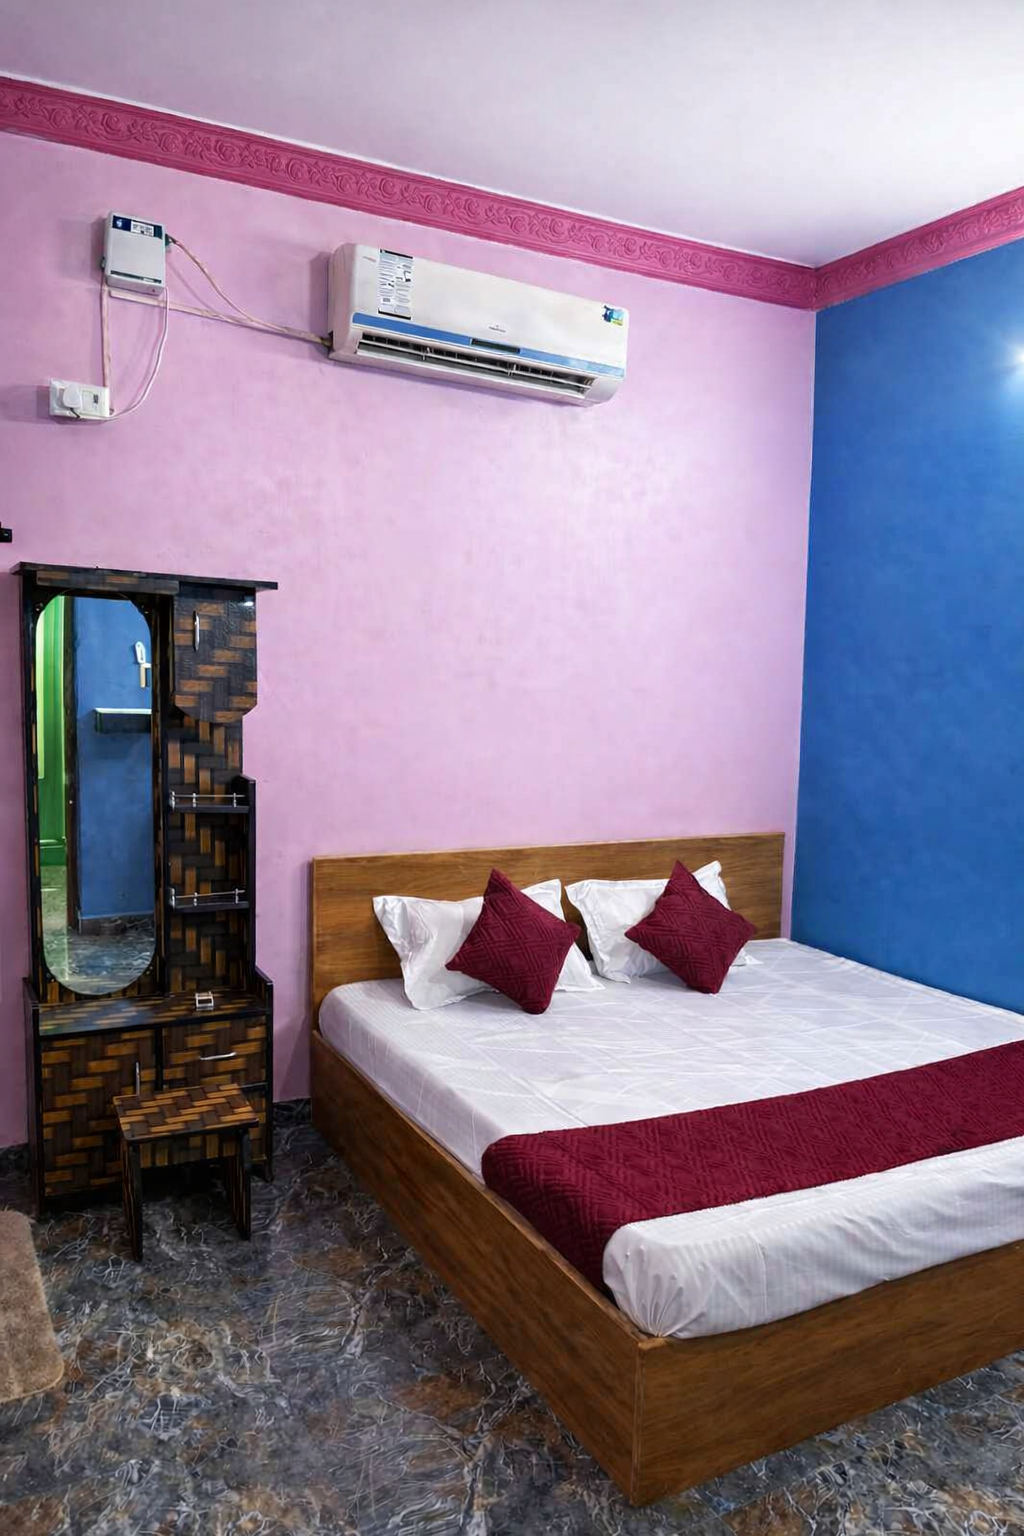
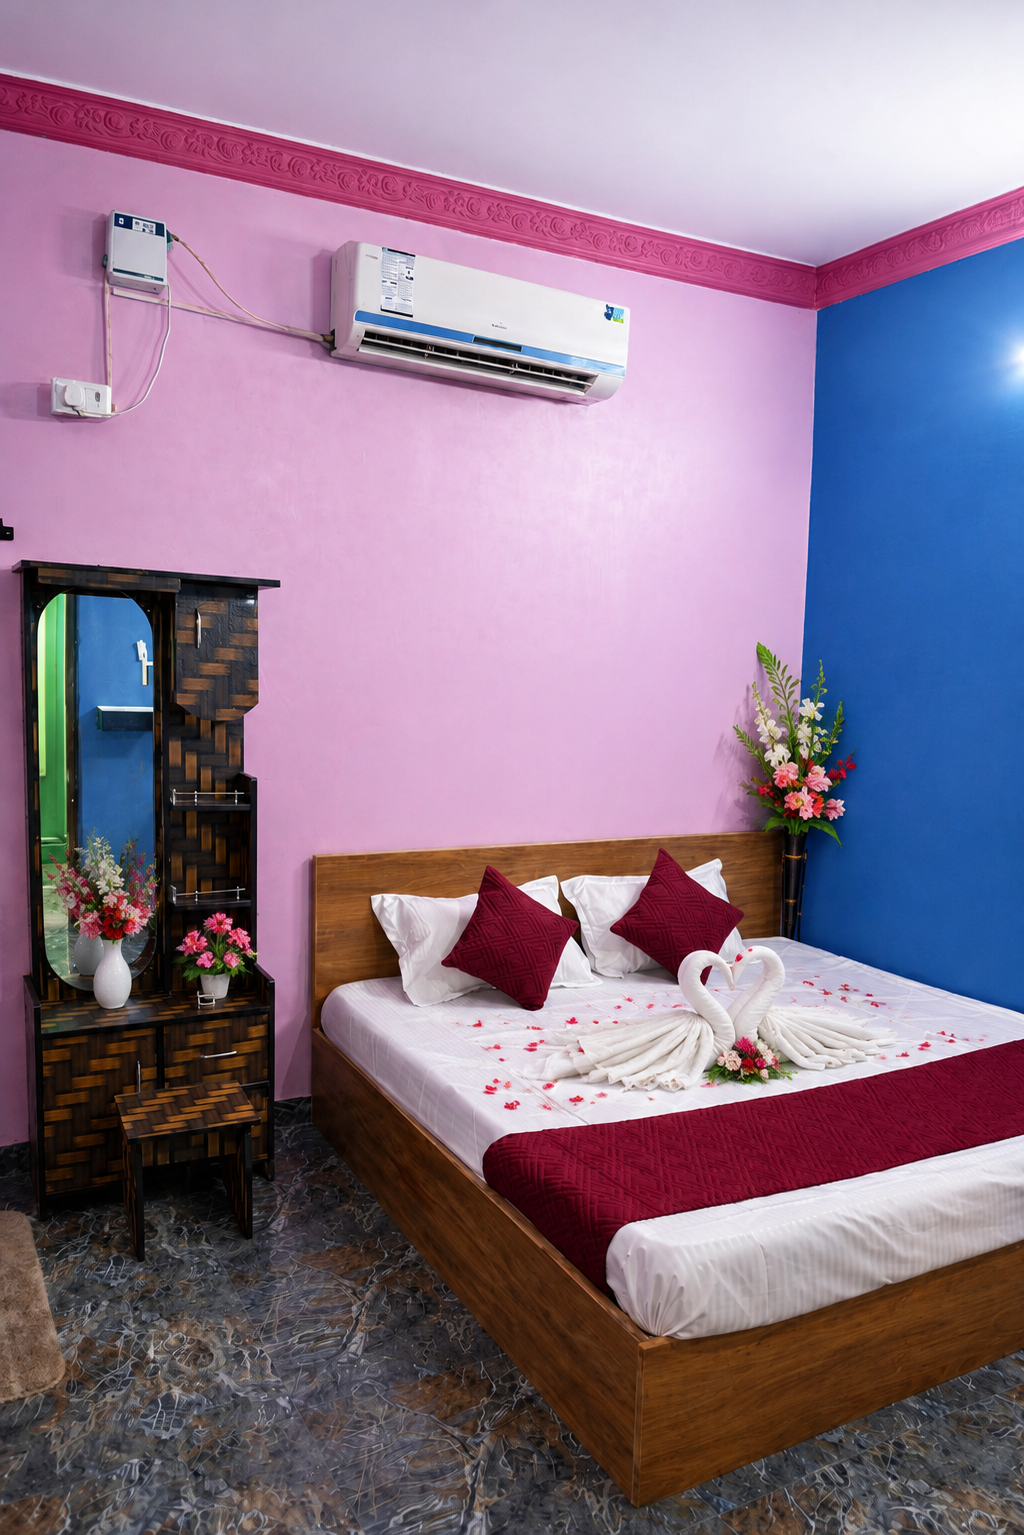
/

diff --git a/src/Components/Navbar.jsx b/src/Components/Navbar.jsx
@@ -1,5 +1,5 @@
 import { useEffect, useState } from "react";
-import { Link, useLocation } from "react-router-dom";
+import { Link, useLocation, useNavigate } from "react-router-dom";
 import LogoImage from "../assets/gallery/JP Logo.png";
 import "bootstrap/dist/css/bootstrap.min.css";
 import "bootstrap/dist/js/bootstrap.bundle.min.js";
@@ -11,6 +11,7 @@ const Navbar = () => {
   const [header, setHeader] = useState(false);
   const [isMobile, setIsMobile] = useState(false);
   const location = useLocation();
+  const navigate = useNavigate();
 
   useEffect(() => {
     const handleResize = () => setIsMobile(window.innerWidth < 992);
@@ -24,20 +25,6 @@ const Navbar = () => {
     window.addEventListener("scroll", handleScroll);
     return () => window.removeEventListener("scroll", handleScroll);
   }, []);
-
-  const scrollToSection = (id) => {
-    if (location.pathname !== "/") {
-      window.location.href = `/#${id}`;
-      return;
-    }
-
-    const section = document.getElementById(id);
-    if (section) {
-      const yOffset = -70;
-      const y = section.getBoundingClientRect().top + window.pageYOffset + yOffset;
-      window.scrollTo({ top: y, behavior: "smooth" });
-    }
-  };
 
   const bgColor = isMobile ? "#FBEFD3" : header ? "#FBEFD3" : "transparent";
   const navTextColor = header || isMobile ? "#000" : "#fff";
@@ -65,25 +52,35 @@ const Navbar = () => {
   };
 
   const navItems = [
-    { label: "Home", id: "hero" },
-    { label: "About Us", id: "about" },
-    { label: "Rooms", id: "room" },
-  { label: "JP Guest House", id: "guest-house" },
-  { label: "Pantry", id: "pantry", route: "/pantry" },
-  { label: "Tours & Travels", id: "tours-travels", route: "/tours-travels" },
-  { label: "Amenities", id: "amenities" },
-    { label: "Gallery", id: "gallery" },
-    { label: "Contact Us", id: "contact" },
+    { label: "Home", route: "/" },
+    { label: "About Us", route: "/about" },
+    { label: "Rooms", route: "/rooms" },
+    { label: "JP Guest House", route: "/guest-house" },
+    { label: "Pantry", route: "/pantry" },
+    { label: "Tours & Travels", route: "/tours-travels" },
+    { label: "Amenities", route: "/amenities" },
+    { label: "Gallery", route: "/gallery" },
+    { label: "Contact Us", route: "/contact" },
   ];
+
+  const handleNavClick = (route) => {
+    if (location.pathname !== route) {
+      navigate(route);
+    } else {
+      window.scrollTo({ top: 0, behavior: "smooth" });
+    }
+  };
 
   return (
     <nav
-      className="navbar navbar-expand-lg fixed-top navbar-premium"
+      className="navbar navbar-expand-lg navbar-premium"
       style={{
-        backgroundColor: bgColor,
+        position: "sticky",
+        top: "0",
+        zIndex: "1030",
+        backgroundColor: "#a37d4c",
         padding: header ? "0.5rem 1rem" : "1rem 1rem",
         boxShadow: header || isMobile ? "0 2px 8px rgba(0,0,0,0.1)" : "none",
-        zIndex: 1030,
         transition: "all 0.3s",
       }}
     >
@@ -96,7 +93,7 @@ const Navbar = () => {
             alt="JP Residency Logo"
             style={{ objectFit: "contain" }}
           />
-          <span style={{ color: "#A37D4C", fontWeight: 700, fontSize: "1.2rem" }}>
+          <span style={{ color: "#efedea", fontWeight: 700, fontSize: "1.2rem" }}>
             JP RESIDENCY
           </span>
         </Link>
@@ -117,39 +114,15 @@ const Navbar = () => {
           <ul className="navbar-nav text-uppercase fw-semibold">
             {navItems.map((item) => (
               <li key={item.label} className="nav-item">
-                {item.externalUrl ? (
-                  <a
-                    href={item.externalUrl}
-                    target="_blank"
-                    rel="noopener noreferrer"
-                    className="nav-link"
-                    style={navItemStyle}
-                    onMouseEnter={handleMouseEnter}
-                    onMouseLeave={handleMouseLeave}
-                  >
-                    {item.label}
-                  </a>
-                ) : item.route ? (
-                  <Link
-                    to={item.route}
-                    className="nav-link"
-                    style={navItemStyle}
-                    onMouseEnter={handleMouseEnter}
-                    onMouseLeave={handleMouseLeave}
-                  >
-                    {item.label}
-                  </Link>
-                ) : (
-                  <span
-                    onClick={() => scrollToSection(item.id)}
-                    className="nav-link"
-                    style={navItemStyle}
-                    onMouseEnter={handleMouseEnter}
-                    onMouseLeave={handleMouseLeave}
-                  >
-                    {item.label}
-                  </span>
-                )}
+                <span
+                  onClick={() => handleNavClick(item.route)}
+                  className="nav-link"
+                  style={navItemStyle}
+                  onMouseEnter={handleMouseEnter}
+                  onMouseLeave={handleMouseLeave}
+                >
+                  {item.label}
+                </span>
               </li>
             ))}
 

diff --git a/src/App.jsx b/src/App.jsx
@@ -1,3 +1,5 @@
+import { useEffect } from "react";
+import { useLocation } from "react-router-dom";
 import './App.css'
 import Navbar from "./Components/Navbar"
 import 'bootstrap/dist/css/bootstrap.min.css';
@@ -9,15 +11,36 @@ import Footer from './Components/Footer';
 import FloatingActions from "./Components/FloatingActions"
 import Pantry from "./Pages/Pantry"
 import ToursTravels from "./Pages/ToursTravels"
+import AboutUs from "./Pages/AboutUs"
+import GuestHouse from "./Pages/GuestHouse"
+import Rooms from "./Pages/Rooms"
+import Amenities from "./Pages/Amenities"
+import Gallery from "./Pages/Gallery"
+import Contact from "./Pages/Contact"
+
+const ScrollToTop = () => {
+  const { pathname } = useLocation();
+  useEffect(() => {
+    window.scrollTo(0, 0);
+  }, [pathname]);
+  return null;
+};
 
 function App() {
   return (
     <>
       <Navbar />
+      <ScrollToTop />
       <Routes>
         <Route path="/" element={<Home />} />
+        <Route path="/about" element={<AboutUs />} />
+        <Route path="/rooms" element={<Rooms />} />
+        <Route path="/guest-house" element={<GuestHouse />} />
         <Route path="/pantry" element={<Pantry />} />
         <Route path="/tours-travels" element={<ToursTravels />} />
+        <Route path="/amenities" element={<Amenities />} />
+        <Route path="/gallery" element={<Gallery />} />
+        <Route path="/contact" element={<Contact />} />
       </Routes>
       <Footer />
       <FloatingActions />

diff --git a/src/Pages/Gallery.jsx b/src/Pages/Gallery.jsx
@@ -22,6 +22,19 @@ import gallery25 from "../assets/gallery/gellary_img25.png";
 import gallery26 from "../assets/gallery/gellary_img26.png";
 import gallery27 from "../assets/gallery/gellary_img27.png";
 
+// Automatically import every image inside the guest folder.
+// Adding a new image here requires no code changes — Vite picks it up on build/HMR.
+const guestImageModules = import.meta.glob("../assets/guest/*", { eager: true });
+const guestImages = Object.keys(guestImageModules)
+  .sort()
+  .map((key) => guestImageModules[key].default);
+
+// Automatically import every image inside the party folder.
+const partyImageModules = import.meta.glob("../assets/party/*", { eager: true });
+const partyImages = Object.keys(partyImageModules)
+  .sort()
+  .map((key) => partyImageModules[key].default);
+
 export const galleryImages = [
   { src: gallery9, size: "gallery-h-xl" },
   { src: gallery10, size: "gallery-h-lg" },
@@ -42,6 +55,8 @@ export const galleryImages = [
   { src: gallery25, size: "gallery-h-md" },
   { src: gallery26, size: "gallery-h-md" },
   { src: gallery27, size: "gallery-h-md" },
+  ...guestImages.map((src) => ({ src, size: "gallery-h-md" })),
+  ...partyImages.map((src) => ({ src, size: "gallery-h-md" })),
 ];
 
 const Gallery = () => {

diff --git a/src/Components/JPGuestHouse.jsx b/src/Components/JPGuestHouse.jsx
@@ -18,10 +18,10 @@ const travelsImages = [
 ];
 
 const amenities = [
-  { icon: "bi-taxi", label: "Cooking Facility" },
-  { icon: "bi-temple", label: "2 Bed Room" },
-  { icon: "bi-mountain", label: "Biggest Hall For Fun" },
-  { icon: "bi-train-light", label: "Terrace With Hill " },
+  { icon: "bi-taxi-front", label: "Cooking Facility" },
+  { icon: "bi-building", label: "2 Bed Room" },
+  { icon: "bi-tree", label: "Biggest Hall For Fun" },
+  { icon: "bi-train-lightrail-front", label: "Terrace With Hill " },
   { icon: "bi-airplane", label: "Meditation Area" },
   { icon: "bi-person-hearts", label: "Mountain View" },
 ];

diff --git a/src/Pages/ToursTravels.jsx b/src/Pages/ToursTravels.jsx
@@ -1,5 +1,7 @@
 import { useState, useEffect } from "react";
 import "bootstrap-icons/font/bootstrap-icons.css";
+import AOS from "aos";
+import "aos/dist/aos.css";
 import travelsImg1 from "../assets/travels/img1.png";
 import travelsImg2 from "../assets/travels/img2.png";
 import travelsImg3 from "../assets/travels/img3.png";
@@ -28,6 +30,10 @@ const amenities = [
 
 const ToursTravels = () => {
   const [currentSlide, setCurrentSlide] = useState(0);
+
+  useEffect(() => {
+    AOS.init({ duration: 1500, once: true, easing: "ease-in-out" });
+  }, []);
 
   useEffect(() => {
     const timer = setInterval(() => {
@@ -97,7 +103,7 @@ const ToursTravels = () => {
             <div className="guest-house-features" style={{ color: "#000000" }}>
               {amenities.map((amenity) => (
                 <div className="guest-house-feature" key={amenity.label}>
-                  <i className={`bi ${amenity.icon}`} style={{ fontSize: "26px" }}></i>
+                  <i className={`bi ${amenity.icon}`} style={{ fontSize: "26px" , color: "#000000" }}></i>
                   <span>{amenity.label}</span>
                 </div>
               ))}

diff --git a/src/Pages/AboutUs.jsx b/src/Pages/AboutUs.jsx
@@ -1,0 +1,7 @@
+import AboutUs from "../Components/AboutUs";
+
+const AboutUsPage = () => {
+  return <AboutUs />;
+};
+
+export default AboutUsPage;

diff --git a/src/Pages/GuestHouse.jsx b/src/Pages/GuestHouse.jsx
@@ -1,0 +1,7 @@
+import JPGuestHouse from "../Components/JPGuestHouse";
+
+const GuestHouse = () => {
+  return <JPGuestHouse />;
+};
+
+export default GuestHouse;

diff --git a/src/Components/Footer.jsx b/src/Components/Footer.jsx
@@ -10,7 +10,7 @@ const Footer = () => {
   const location = useLocation();
   const [lightboxImg, setLightboxImg] = useState(null);
 
-  const footerGalleryImages = galleryImages.map((item) => item.src);
+  const footerGalleryImages = galleryImages.map((item) => item.src).slice(0, 4);
   const bookingUrl =
     "https://bookingengine.stayflexi.com/?hotel_id=39026";
 
@@ -163,7 +163,7 @@ const Footer = () => {
               </h6>
               <div className="d-flex align-items-center gap-2 mb-3" style={{ color: "#ccc", fontSize: "13px" }}>
                 <i className="bi bi-geo-alt-fill" style={{ color: "#A37D4C", fontSize: "16px", minWidth: "20px" }}></i>
-                <span>Tiruvannamalai, Tamil Nadu, India</span>
+                <span>Idukka Pillaiyar Kovil, 6th St, Vengikkal, Tiruvannamalai, Tamil Nadu 606604</span>
               </div>
               <div className="d-flex align-items-center gap-2 mb-3" style={{ color: "#ccc", fontSize: "13px" }}>
                 <i className="bi bi-telephone-fill" style={{ color: "#A37D4C", fontSize: "16px", minWidth: "20px" }}></i>
@@ -282,7 +282,7 @@ const Footer = () => {
             {new Date().getFullYear()} JP Residency. All Rights Reserved.
             <br />
             <span style={{ fontSize: "12px", color: "#777" }}>
-              Designed for a Premium Hospitality Experience
+              Designed By Sonachala
             </span>
           </div>
         </div>

diff --git a/src/Components/ToursTravels.jsx b/src/Components/ToursTravels.jsx
@@ -1,5 +1,7 @@
 import { useState, useEffect } from "react";
 import "bootstrap-icons/font/bootstrap-icons.css";
+import AOS from "aos";
+import "aos/dist/aos.css";
 import travelsImg1 from "../assets/tour/img1.png";
 import travelsImg2 from "../assets/tour/img2.png";
 import travelsImg3 from "../assets/tour/img3.png";
@@ -30,6 +32,10 @@ const amenities = [
 
 const ToursTravels = () => {
   const [currentSlide, setCurrentSlide] = useState(0);
+
+  useEffect(() => {
+    AOS.init({ duration: 1500, once: true, easing: "ease-in-out" });
+  }, []);
 
   useEffect(() => {
     const timer = setInterval(() => {

diff --git a/src/Components/WhyChooseUs.jsx b/src/Components/WhyChooseUs.jsx
@@ -43,7 +43,7 @@ const WhyChooseUs = () => {
     { icon: "bi-person-heart", title: "Pilgrim-Friendly Stay", desc: "Comfortable accommodation designed for devotees and spiritual travelers." },
     { icon: "bi-signpost-split-fill", title: "Prime Location Near Temple Attractions", desc: "Easy access to important spiritual and sightseeing destinations." },
     { icon: "bi-people-fill", title: "Family-Friendly Accommodation", desc: "Safe, comfortable, and convenient stay for families." },
-    { icon: "bi-taxi", title: "Tours & Travels", desc: "Explore Tiruvannamalai comfortably with our reliable Tours & Travels service. We provide safe transportation for temple visits, Girivalam, sightseeing, airport transfers, railway station pickups, and customized family trips.", link: "/tours-travels" },
+    // { icon: "bi-taxi", title: "Tours & Travels", desc: "Explore Tiruvannamalai comfortably with our reliable Tours & Travels service. We provide safe transportation for temple visits, Girivalam, sightseeing, airport transfers, railway station pickups, and customized family trips.", link: "/tours-travels" },
   ];
 
   return (